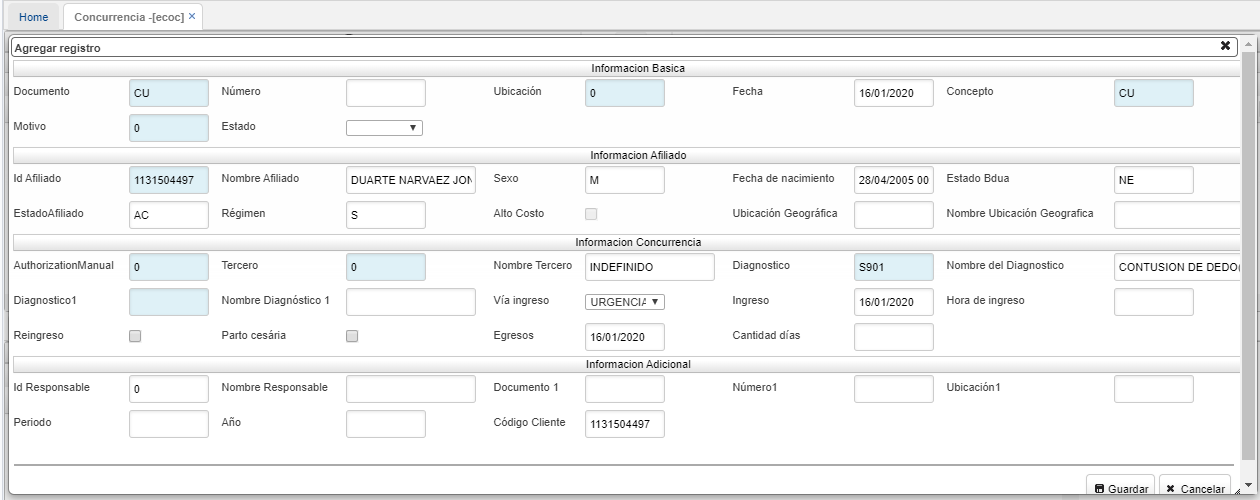
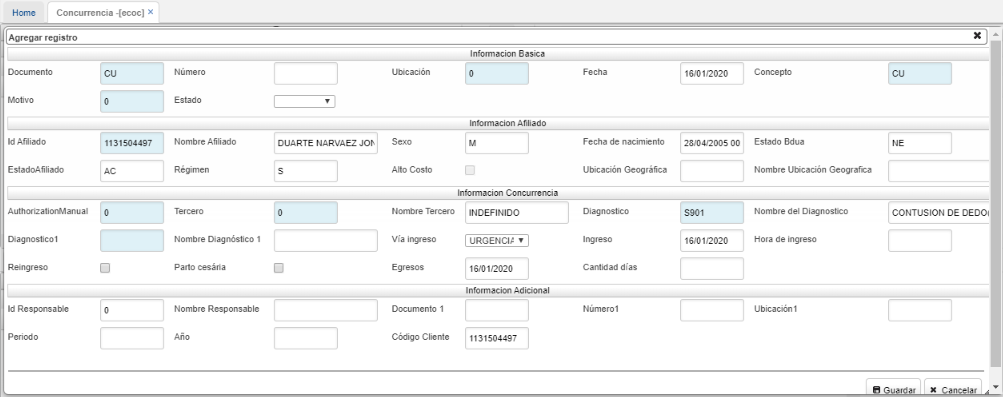
Imagen
Se modifico el tamaño de las imagenes

diff --git a/Operacion/is/salud/ebasica/ecoc.md b/Operacion/is/salud/ebasica/ecoc.md
@@ -69,7 +69,7 @@ Agregamos un nuevo renglón y seleccionamos del campo Servicio, el servicio brin
 
 Finalmente guardamos los cambios en el renglón del detalle.
 
-## [Pestaña Visitas](http://docs.oasis.com/Operacion/crm/portal/cliente/#Pestaña-Visitas)
+### [Pestaña Visitas](http://docs.oasis.com/Operacion/crm/portal/cliente/#Pestaña-Visitas)
 
 En la pestaña *Visitas* del detalle, se deben registrar los servicios que se le están prestando al afiliado.
 
@@ -83,7 +83,7 @@ En el campo *Observación* se debe realizar una descripción de la visita del se
 
 Completando el renglón, se debe seleccionar en el campo *Id Responsable,* la persona que está diligenciando el registro. Seguidamente, indicar en el campo *Diagnóstico,* cuál fue el diagnóstico identificado en la visita y por último en el campo *Cargo* indicar el cargo de la persona que realiza o define el diagnóstico.
 
-## [Pestaña Eventos Adversos](http://docs.oasis.com/Operacion/crm/portal/cliente/#Pestaña-Eventos-Adversos)
+### [Pestaña Eventos Adversos](http://docs.oasis.com/Operacion/crm/portal/cliente/#Pestaña-Eventos-Adversos)
 
 La pestaña de *Eventos Adversos* permite registrar los diferentes eventos o situaciones adversas que se puedan presentar al momento de prestar el servicio al afiliado.
 
@@ -133,7 +133,7 @@ En el campo **_“Auditor Asignado”_** y **_“Nombre Auditor”_** de la mism
 
 ![](Imagen 16 Concurrencia.png)
 
-## [Detalle aplicación EAUF – Auditoría Facturación](http://docs.oasis.com/Operacion/crm/portal/cliente/#Detalle-aplicación-EAUF-Auditoría-Facturación)
+### [Detalle aplicación EAUF – Auditoría Facturación](http://docs.oasis.com/Operacion/crm/portal/cliente/#Detalle-aplicación-EAUF-Auditoría-Facturación)
 
 En la pestaña *“Detalle”* de la aplicación **EAUF – Auditoría Facturación** se visualiza el servicio que fue prestado al afiliado.
 
